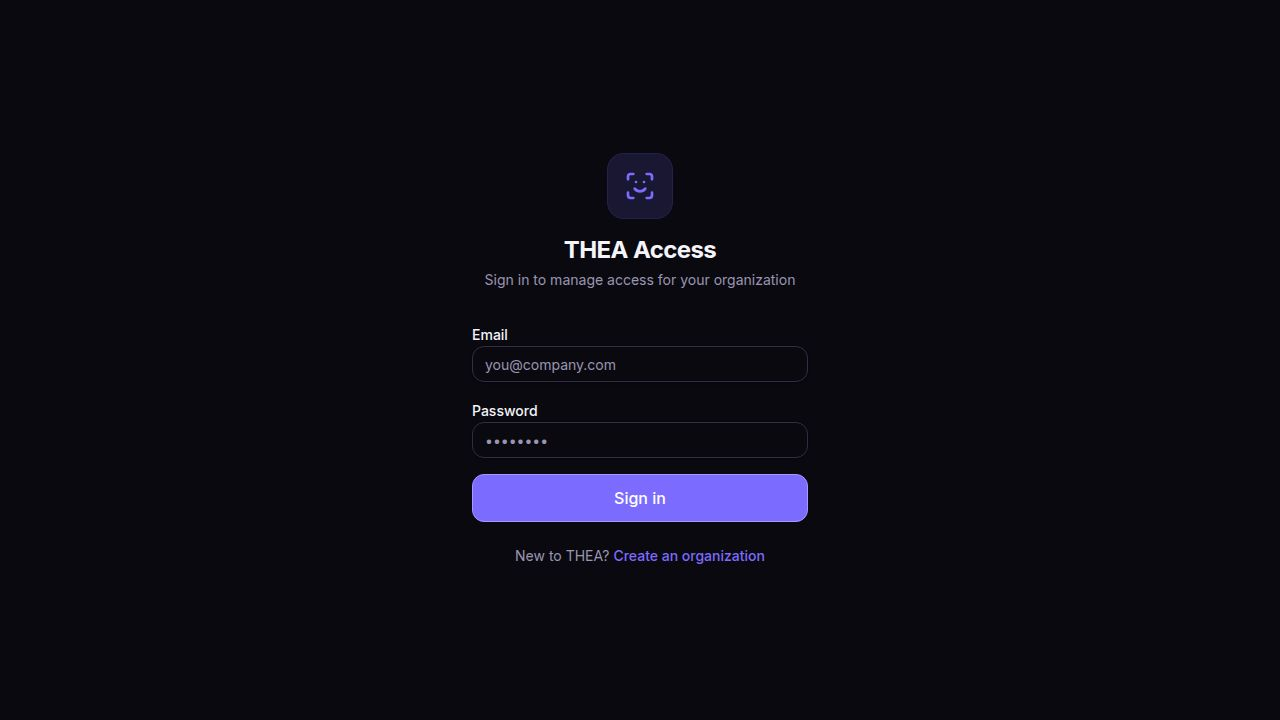
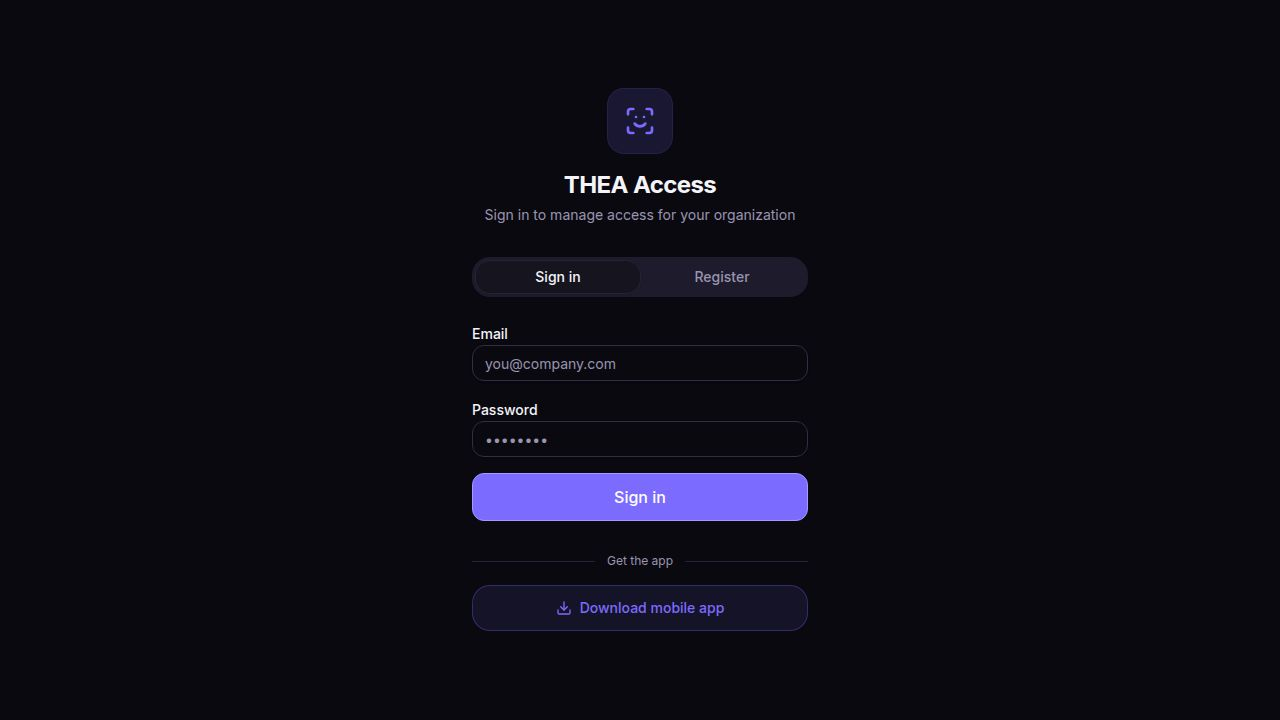
Add a feature to download and install the mobile application
Introduce an InstallAppDialog component that simulates installation and handles platform-specific install flows (native prompt, iOS steps, or QR code fallback). Improve error handling and user experience during the installation process.

Replit-Commit-Author: Agent
Replit-Commit-Session-Id: 346a3504-951f-44f0-abb5-65db62b4b43f
Replit-Commit-Checkpoint-Type: full_checkpoint
Replit-Commit-Event-Id: ef952ef8-8400-48ee-9997-25b35c1bf846
Replit-Commit-Screenshot-Url: https://storage.googleapis.com/screenshot-production-us-central1/e9d033dc-0117-437b-a6c1-d83e4ebe9909/346a3504-951f-44f0-abb5-65db62b4b43f/vhscrqs
Replit-Helium-Checkpoint-Created: true

diff --git a/artifacts/access-pwa/src/components/InstallAppDialog.tsx b/artifacts/access-pwa/src/components/InstallAppDialog.tsx
@@ -1,0 +1,316 @@
+import { useEffect, useRef, useState } from "react";
+import { AnimatePresence, motion } from "framer-motion";
+import { QRCodeSVG } from "qrcode.react";
+import {
+  Check,
+  Download,
+  Loader2,
+  ScanFace,
+  Share,
+  ShieldCheck,
+  SquarePlus,
+  Star,
+  WifiOff,
+} from "lucide-react";
+import {
+  Dialog,
+  DialogContent,
+  DialogDescription,
+  DialogTitle,
+} from "@/components/ui/dialog";
+import { Button } from "@/components/ui/button";
+import { usePWA } from "@/hooks/use-pwa";
+import { isIOS, promptInstall } from "@/lib/pwa";
+import { haptic } from "@/lib/haptics";
+
+const APP_URL =
+  typeof window !== "undefined"
+    ? `${window.location.origin}${import.meta.env.BASE_URL}`
+    : "https://m.thea.quest/";
+
+const FEATURES = [
+  { icon: ScanFace, label: "Face-scan check-in" },
+  { icon: WifiOff, label: "Works offline" },
+  { icon: ShieldCheck, label: "Secure & org-scoped" },
+];
+
+const STAGES = ["Preparing…", "Downloading…", "Installing…"];
+
+type Phase = "idle" | "installing" | "done" | "ios" | "manual";
+
+const sleep = (ms: number) => new Promise((r) => setTimeout(r, ms));
+
+interface InstallAppDialogProps {
+  open: boolean;
+  onOpenChange: (open: boolean) => void;
+}
+
+/**
+ * App-store-style install popup. Runs a short "installing" simulation, then
+ * either fires the real PWA install prompt (Chromium), reveals iOS
+ * Add-to-Home-Screen steps, or falls back to a QR for another device.
+ */
+export function InstallAppDialog({ open, onOpenChange }: InstallAppDialogProps) {
+  const { canInstall, standalone } = usePWA();
+  const ios = isIOS();
+  const [phase, setPhase] = useState<Phase>("idle");
+  const [progress, setProgress] = useState(0);
+  const [stage, setStage] = useState(0);
+  // Bumped whenever the dialog closes, to invalidate an in-flight simulation so
+  // it can't advance (or fire the native prompt) after the user dismissed it.
+  const runToken = useRef(0);
+
+  useEffect(() => {
+    if (open) {
+      setPhase(standalone ? "done" : "idle");
+      setProgress(0);
+      setStage(0);
+    } else {
+      runToken.current += 1;
+    }
+  }, [open, standalone]);
+
+  const runInstall = async () => {
+    const token = (runToken.current += 1);
+    const alive = () => token === runToken.current;
+
+    haptic("select");
+    setPhase("installing");
+    // Simulated staged progress for an app-store-like feel. Kept well under the
+    // ~5s transient-activation window so the real prompt() below still counts as
+    // a user gesture.
+    setStage(0);
+    setProgress(10);
+    await sleep(260);
+    if (!alive()) return;
+    setStage(1);
+    setProgress(45);
+    await sleep(300);
+    if (!alive()) return;
+    setStage(2);
+    setProgress(80);
+    await sleep(320);
+    if (!alive()) return;
+
+    if (canInstall) {
+      setProgress(92);
+      let accepted = false;
+      try {
+        accepted = await promptInstall();
+      } catch {
+        // prompt() can throw (already consumed / lost activation) — fall back to
+        // the QR path rather than stranding the UI mid-progress.
+        if (alive()) setPhase("manual");
+        return;
+      }
+      if (!alive()) return;
+      if (accepted) {
+        setProgress(100);
+        haptic("success");
+        setPhase("done");
+      } else {
+        haptic("warning");
+        setPhase("idle");
+        setProgress(0);
+      }
+    } else if (ios) {
+      setProgress(100);
+      haptic("success");
+      setPhase("ios");
+    } else {
+      setProgress(100);
+      haptic("success");
+      setPhase("manual");
+    }
+  };
+
+  return (
+    <Dialog open={open} onOpenChange={onOpenChange}>
+      <DialogContent className="max-w-sm gap-0 overflow-hidden rounded-2xl border-border p-0">
+        {/* App identity header */}
+        <div className="flex items-center gap-4 border-b border-border p-5">
+          <div className="flex h-16 w-16 shrink-0 items-center justify-center rounded-[1.15rem] bg-primary/15 ring-1 ring-primary/25">
+            <ScanFace className="h-8 w-8 text-primary" />
+          </div>
+          <div className="min-w-0">
+            <DialogTitle className="text-lg">THEA Access</DialogTitle>
+            <DialogDescription className="mt-0.5 text-xs">
+              THEA · Access control
+            </DialogDescription>
+            <div className="mt-1.5 flex items-center gap-1 text-[0.7rem] font-medium text-muted-foreground">
+              <span className="flex items-center gap-0.5 text-amber-400">
+                <Star className="h-3 w-3 fill-current" />
+                4.9
+              </span>
+              <span aria-hidden>·</span>
+              <span>Free</span>
+              <span aria-hidden>·</span>
+              <span>No app store</span>
+            </div>
+          </div>
+        </div>
+
+        <div className="p-5">
+          <AnimatePresence mode="wait" initial={false}>
+            {phase === "installing" ? (
+              <motion.div
+                key="installing"
+                initial={{ opacity: 0 }}
+                animate={{ opacity: 1 }}
+                exit={{ opacity: 0 }}
+                className="py-2"
+              >
+                <div className="mb-2 flex items-center justify-between text-sm">
+                  <span className="flex items-center gap-2 font-medium">
+                    <Loader2 className="h-4 w-4 animate-spin text-primary" />
+                    {STAGES[stage]}
+                  </span>
+                  <span className="tabular-nums text-muted-foreground">
+                    {progress}%
+                  </span>
+                </div>
+                <div className="h-2 w-full overflow-hidden rounded-full bg-muted">
+                  <motion.div
+                    className="h-full rounded-full bg-primary"
+                    animate={{ width: `${progress}%` }}
+                    transition={{ type: "spring", stiffness: 120, damping: 20 }}
+                  />
+                </div>
+              </motion.div>
+            ) : phase === "done" ? (
+              <motion.div
+                key="done"
+                initial={{ opacity: 0, y: 8 }}
+                animate={{ opacity: 1, y: 0 }}
+                exit={{ opacity: 0 }}
+                className="text-center"
+              >
+                <motion.div
+                  initial={{ scale: 0.6 }}
+                  animate={{ scale: 1 }}
+                  transition={{ type: "spring", stiffness: 320, damping: 18 }}
+                  className="mx-auto mb-3 flex h-12 w-12 items-center justify-center rounded-full bg-primary/15"
+                >
+                  <Check className="h-6 w-6 text-primary" />
+                </motion.div>
+                <p className="text-sm font-medium">
+                  {standalone ? "Already installed" : "Installed!"}
+                </p>
+                <p className="mt-1 text-xs text-muted-foreground">
+                  THEA Access is on your home screen.
+                </p>
+                <Button
+                  size="lg"
+                  className="mt-4 h-11 w-full"
+                  onClick={() => {
+                    haptic("tap");
+                    window.location.href = import.meta.env.BASE_URL;
+                  }}
+                  data-testid="button-open-app"
+                >
+                  Open app
+                </Button>
+              </motion.div>
+            ) : phase === "ios" ? (
+              <motion.div
+                key="ios"
+                initial={{ opacity: 0, y: 8 }}
+                animate={{ opacity: 1, y: 0 }}
+                exit={{ opacity: 0 }}
+              >
+                <p className="text-sm font-medium">One last step on iPhone</p>
+                <ol className="mt-3 space-y-2.5">
+                  <li className="flex items-start gap-2.5 text-sm text-muted-foreground">
+                    <Step n={1} />
+                    <span>
+                      Tap the Share icon{" "}
+                      <Share className="inline h-4 w-4 align-text-bottom" /> in
+                      Safari.
+                    </span>
+                  </li>
+                  <li className="flex items-start gap-2.5 text-sm text-muted-foreground">
+                    <Step n={2} />
+                    <span>
+                      Choose{" "}
+                      <span className="font-medium text-foreground">
+                        “Add to Home Screen”
+                      </span>{" "}
+                      <SquarePlus className="inline h-4 w-4 align-text-bottom" />.
+                    </span>
+                  </li>
+                </ol>
+              </motion.div>
+            ) : phase === "manual" ? (
+              <motion.div
+                key="manual"
+                initial={{ opacity: 0, y: 8 }}
+                animate={{ opacity: 1, y: 0 }}
+                exit={{ opacity: 0 }}
+                className="text-center"
+              >
+                <p className="text-sm font-medium">Open on your phone</p>
+                <p className="mt-1 text-xs text-muted-foreground">
+                  Scan with your camera, then choose “Install / Add to Home
+                  Screen”.
+                </p>
+                <div className="mx-auto mt-4 w-fit rounded-xl bg-white p-3">
+                  <QRCodeSVG
+                    value={APP_URL}
+                    size={140}
+                    level="M"
+                    marginSize={0}
+                    data-testid="qr-install-dialog"
+                  />
+                </div>
+                <p className="mt-3 break-all text-xs font-medium text-foreground/80">
+                  {APP_URL.replace(/^https?:\/\//, "")}
+                </p>
+              </motion.div>
+            ) : (
+              <motion.div
+                key="idle"
+                initial={{ opacity: 0 }}
+                animate={{ opacity: 1 }}
+                exit={{ opacity: 0 }}
+              >
+                <ul className="mb-4 grid grid-cols-3 gap-2">
+                  {FEATURES.map((f) => (
+                    <li
+                      key={f.label}
+                      className="flex flex-col items-center gap-1.5 rounded-xl border border-border bg-card/50 px-2 py-3 text-center"
+                    >
+                      <f.icon className="h-5 w-5 text-primary" />
+                      <span className="text-[0.7rem] leading-tight text-muted-foreground">
+                        {f.label}
+                      </span>
+                    </li>
+                  ))}
+                </ul>
+                <Button
+                  size="lg"
+                  className="h-12 w-full text-base"
+                  onClick={() => void runInstall()}
+                  data-testid="button-install-app"
+                >
+                  <Download className="mr-2 h-5 w-5" />
+                  Install app
+                </Button>
+                <p className="mt-2 text-center text-[0.7rem] text-muted-foreground">
+                  Installs in seconds · about 2 MB
+                </p>
+              </motion.div>
+            )}
+          </AnimatePresence>
+        </div>
+      </DialogContent>
+    </Dialog>
+  );
+}
+
+function Step({ n }: { n: number }) {
+  return (
+    <span className="mt-0.5 flex h-5 w-5 shrink-0 items-center justify-center rounded-full bg-primary/15 text-[0.7rem] font-semibold text-primary">
+      {n}
+    </span>
+  );
+}

diff --git a/artifacts/access-pwa/src/pages/Login.tsx b/artifacts/access-pwa/src/pages/Login.tsx
@@ -1,5 +1,5 @@
 import { useState } from "react";
-import { Loader2, ScanFace } from "lucide-react";
+import { Download, Loader2, ScanFace } from "lucide-react";
 import { AnimatePresence, motion } from "framer-motion";
 import { Button } from "@/components/ui/button";
 import { Input } from "@/components/ui/input";
@@ -7,6 +7,7 @@ import { Label } from "@/components/ui/label";
 import { useAuth } from "@/context/AuthContext";
 import { ApiError } from "@workspace/api-client-react";
 import { SegmentedControl } from "@/components/native/SegmentedControl";
+import { InstallAppDialog } from "@/components/InstallAppDialog";
 import { haptic } from "@/lib/haptics";
 
 type Mode = "login" | "register";
@@ -19,6 +20,7 @@ export default function Login() {
   const [password, setPassword] = useState("");
   const [error, setError] = useState<string | null>(null);
   const [busy, setBusy] = useState(false);
+  const [showInstall, setShowInstall] = useState(false);
 
   const submit = async (e: React.FormEvent) => {
     e.preventDefault();
@@ -153,8 +155,29 @@ export default function Login() {
             {mode === "login" ? "Sign in" : "Create organization"}
           </Button>
         </form>
+
+        <div className="mt-8 flex items-center gap-3">
+          <div className="h-px flex-1 bg-border" />
+          <span className="text-xs text-muted-foreground">Get the app</span>
+          <div className="h-px flex-1 bg-border" />
+        </div>
+
+        <button
+          type="button"
+          onClick={() => {
+            haptic("tap");
+            setShowInstall(true);
+          }}
+          className="mt-4 flex w-full items-center justify-center gap-2 rounded-xl border border-primary/30 bg-primary/10 px-4 py-3 text-sm font-medium text-primary transition-colors hover:bg-primary/15 active:scale-[0.98]"
+          data-testid="button-download-app"
+        >
+          <Download className="h-4 w-4" />
+          Download mobile app
+        </button>
       </div>
       <div className="safe-bottom" />
+
+      <InstallAppDialog open={showInstall} onOpenChange={setShowInstall} />
     </div>
   );
 }

diff --git a/.agents/memory/thea-access-pwa.md b/.agents/memory/thea-access-pwa.md
@@ -78,3 +78,14 @@ Accounts = organizations.
   an offline relaunch recompute a different buster and discard the cache, breaking
   offline. **How to apply:** enforce per-user isolation by purging cache+snapshot on
   login/register/logout/confirmed-401 (purgePersistedQueryCache), not via the buster.
+- **"Download mobile app" install popup (InstallAppDialog, on Login).** App-store-
+  style dialog that SIMULATES an install with staged progress, then does the real
+  thing per platform: promptInstall() (Chromium beforeinstallprompt), iOS
+  Add-to-Home steps, or a QR "open on your phone" fallback. **Why the simulated
+  delay is bounded:** the fake progress must total well under Chromium's ~5s
+  transient-activation window or `prompt()` no longer counts as a user gesture and
+  silently fails. **Honesty rule:** only claim "Installed!" when promptInstall()
+  resolves accepted OR already standalone; iOS/QR paths must never claim installed.
+  runInstall guards each await with a runToken (bumped on close) so a dismissed
+  dialog can't advance or fire the native prompt late, and wraps prompt() in
+  try/catch → manual QR fallback so a thrown prompt can't strand the UI mid-progress.